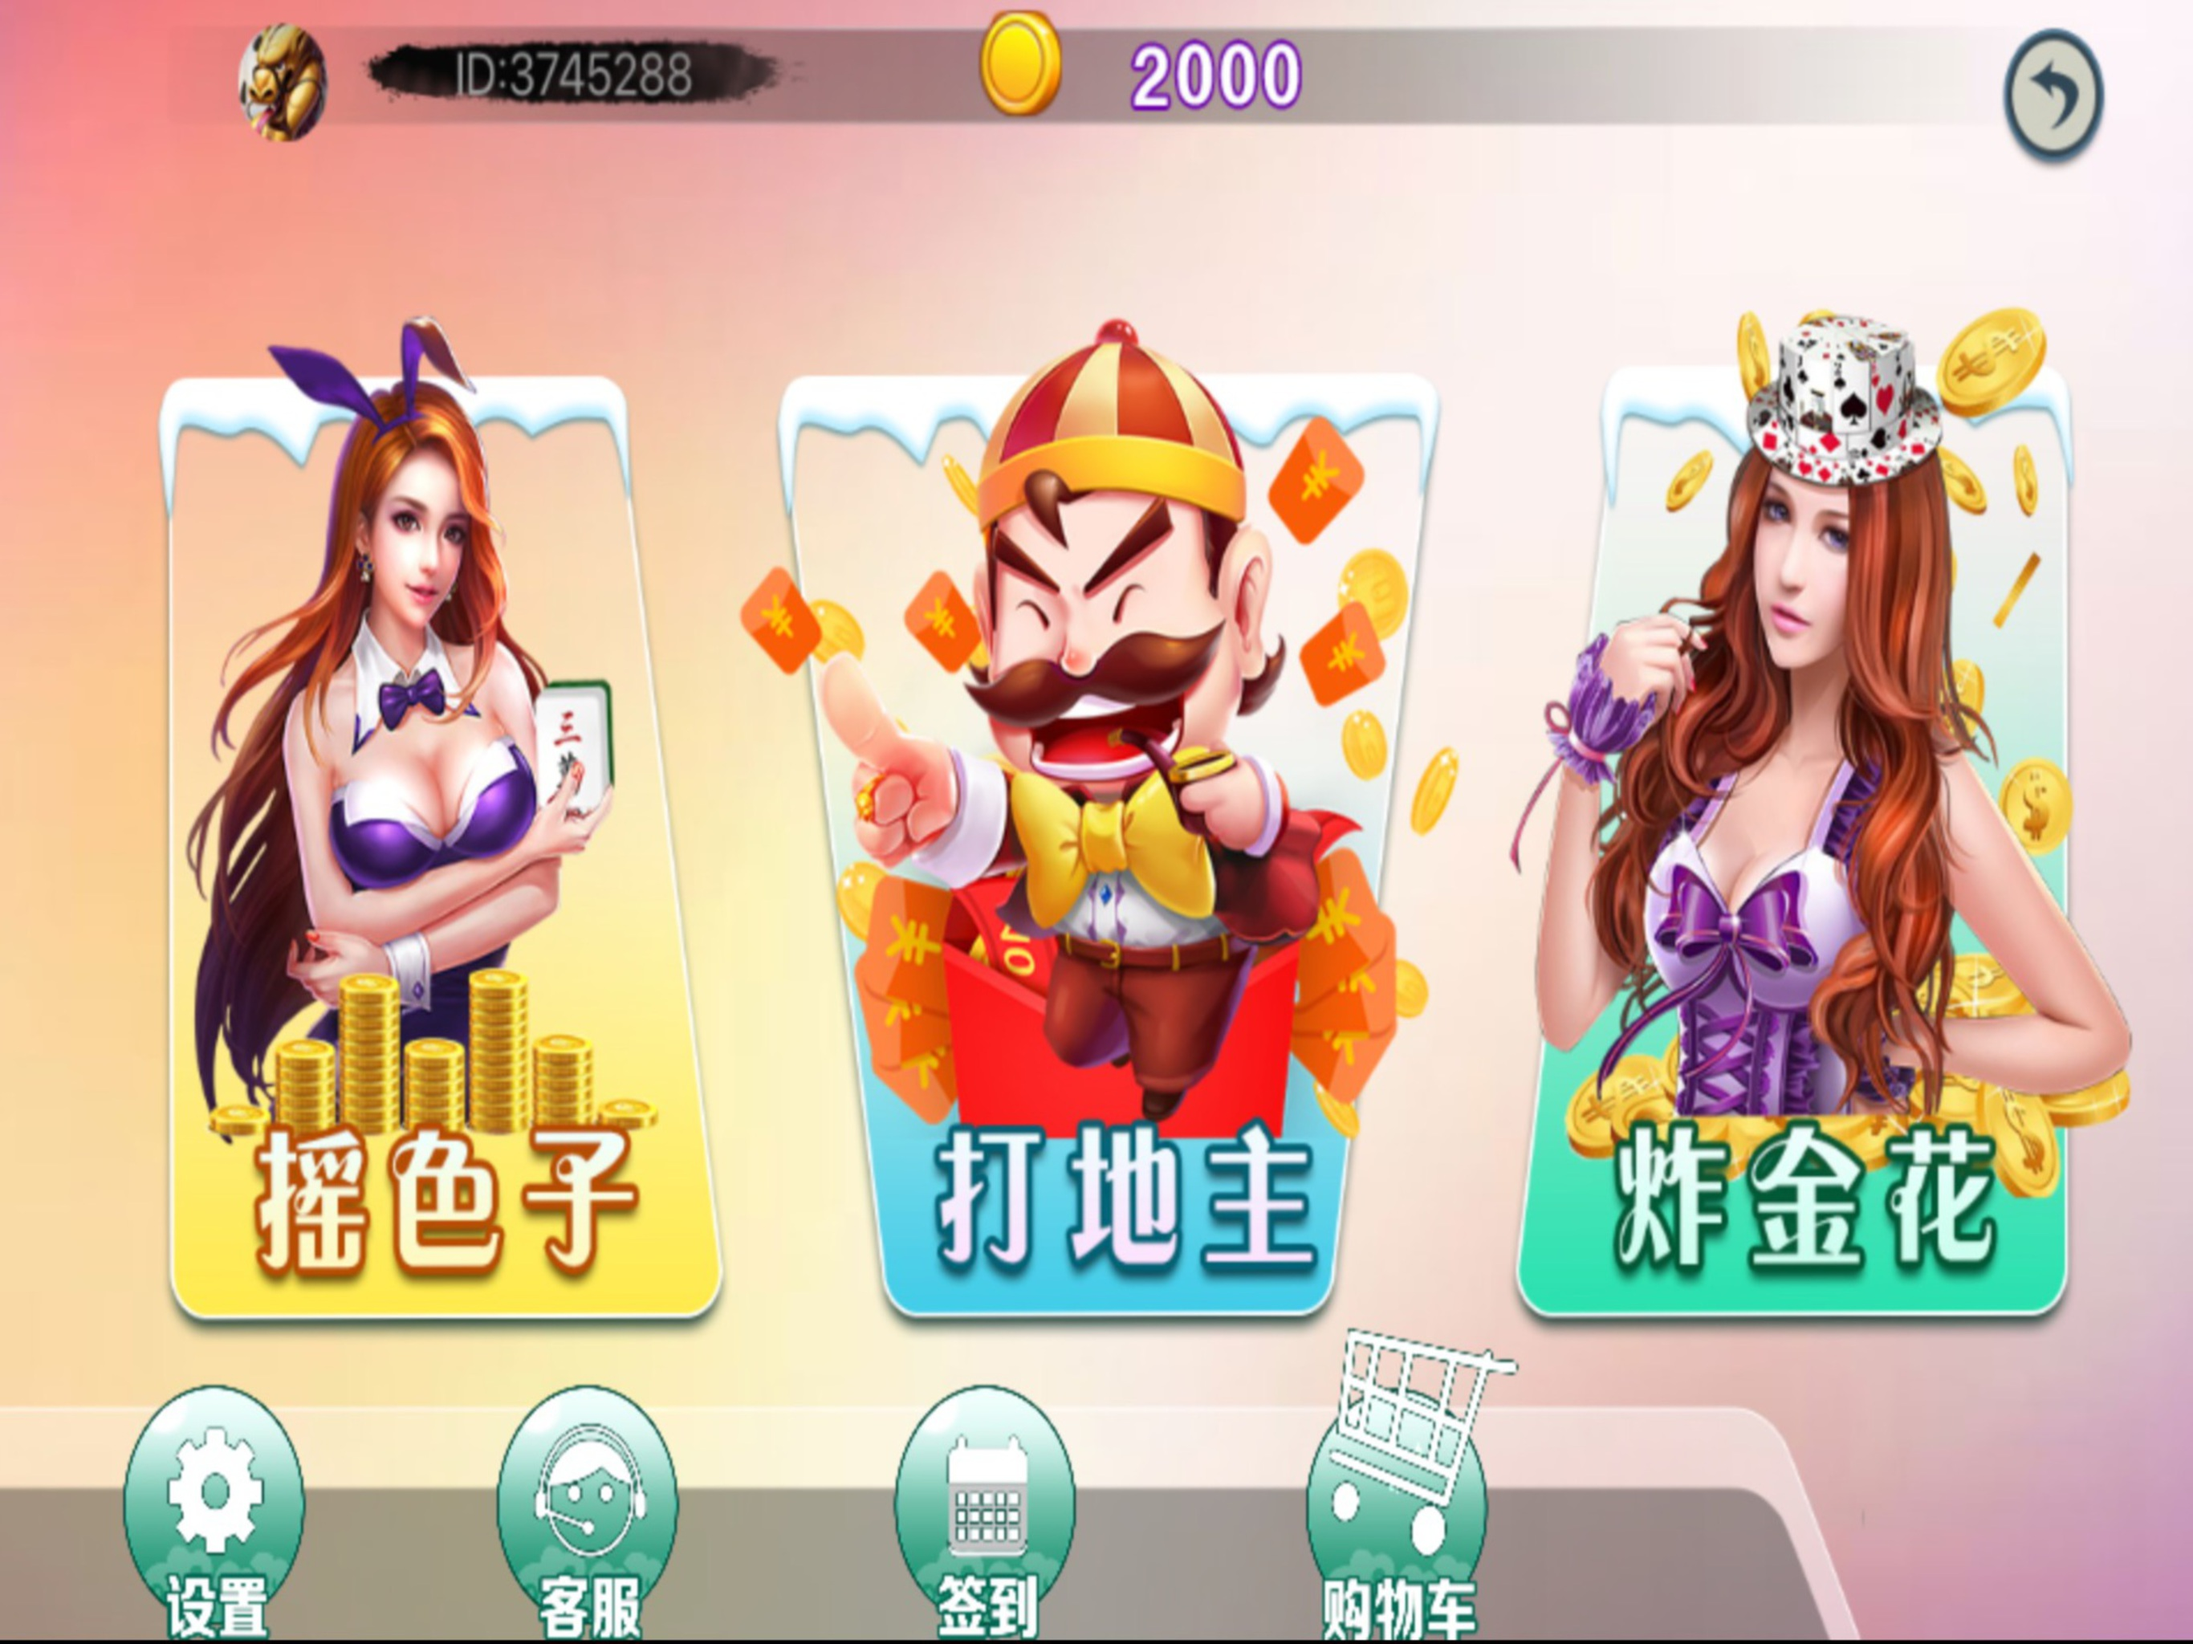
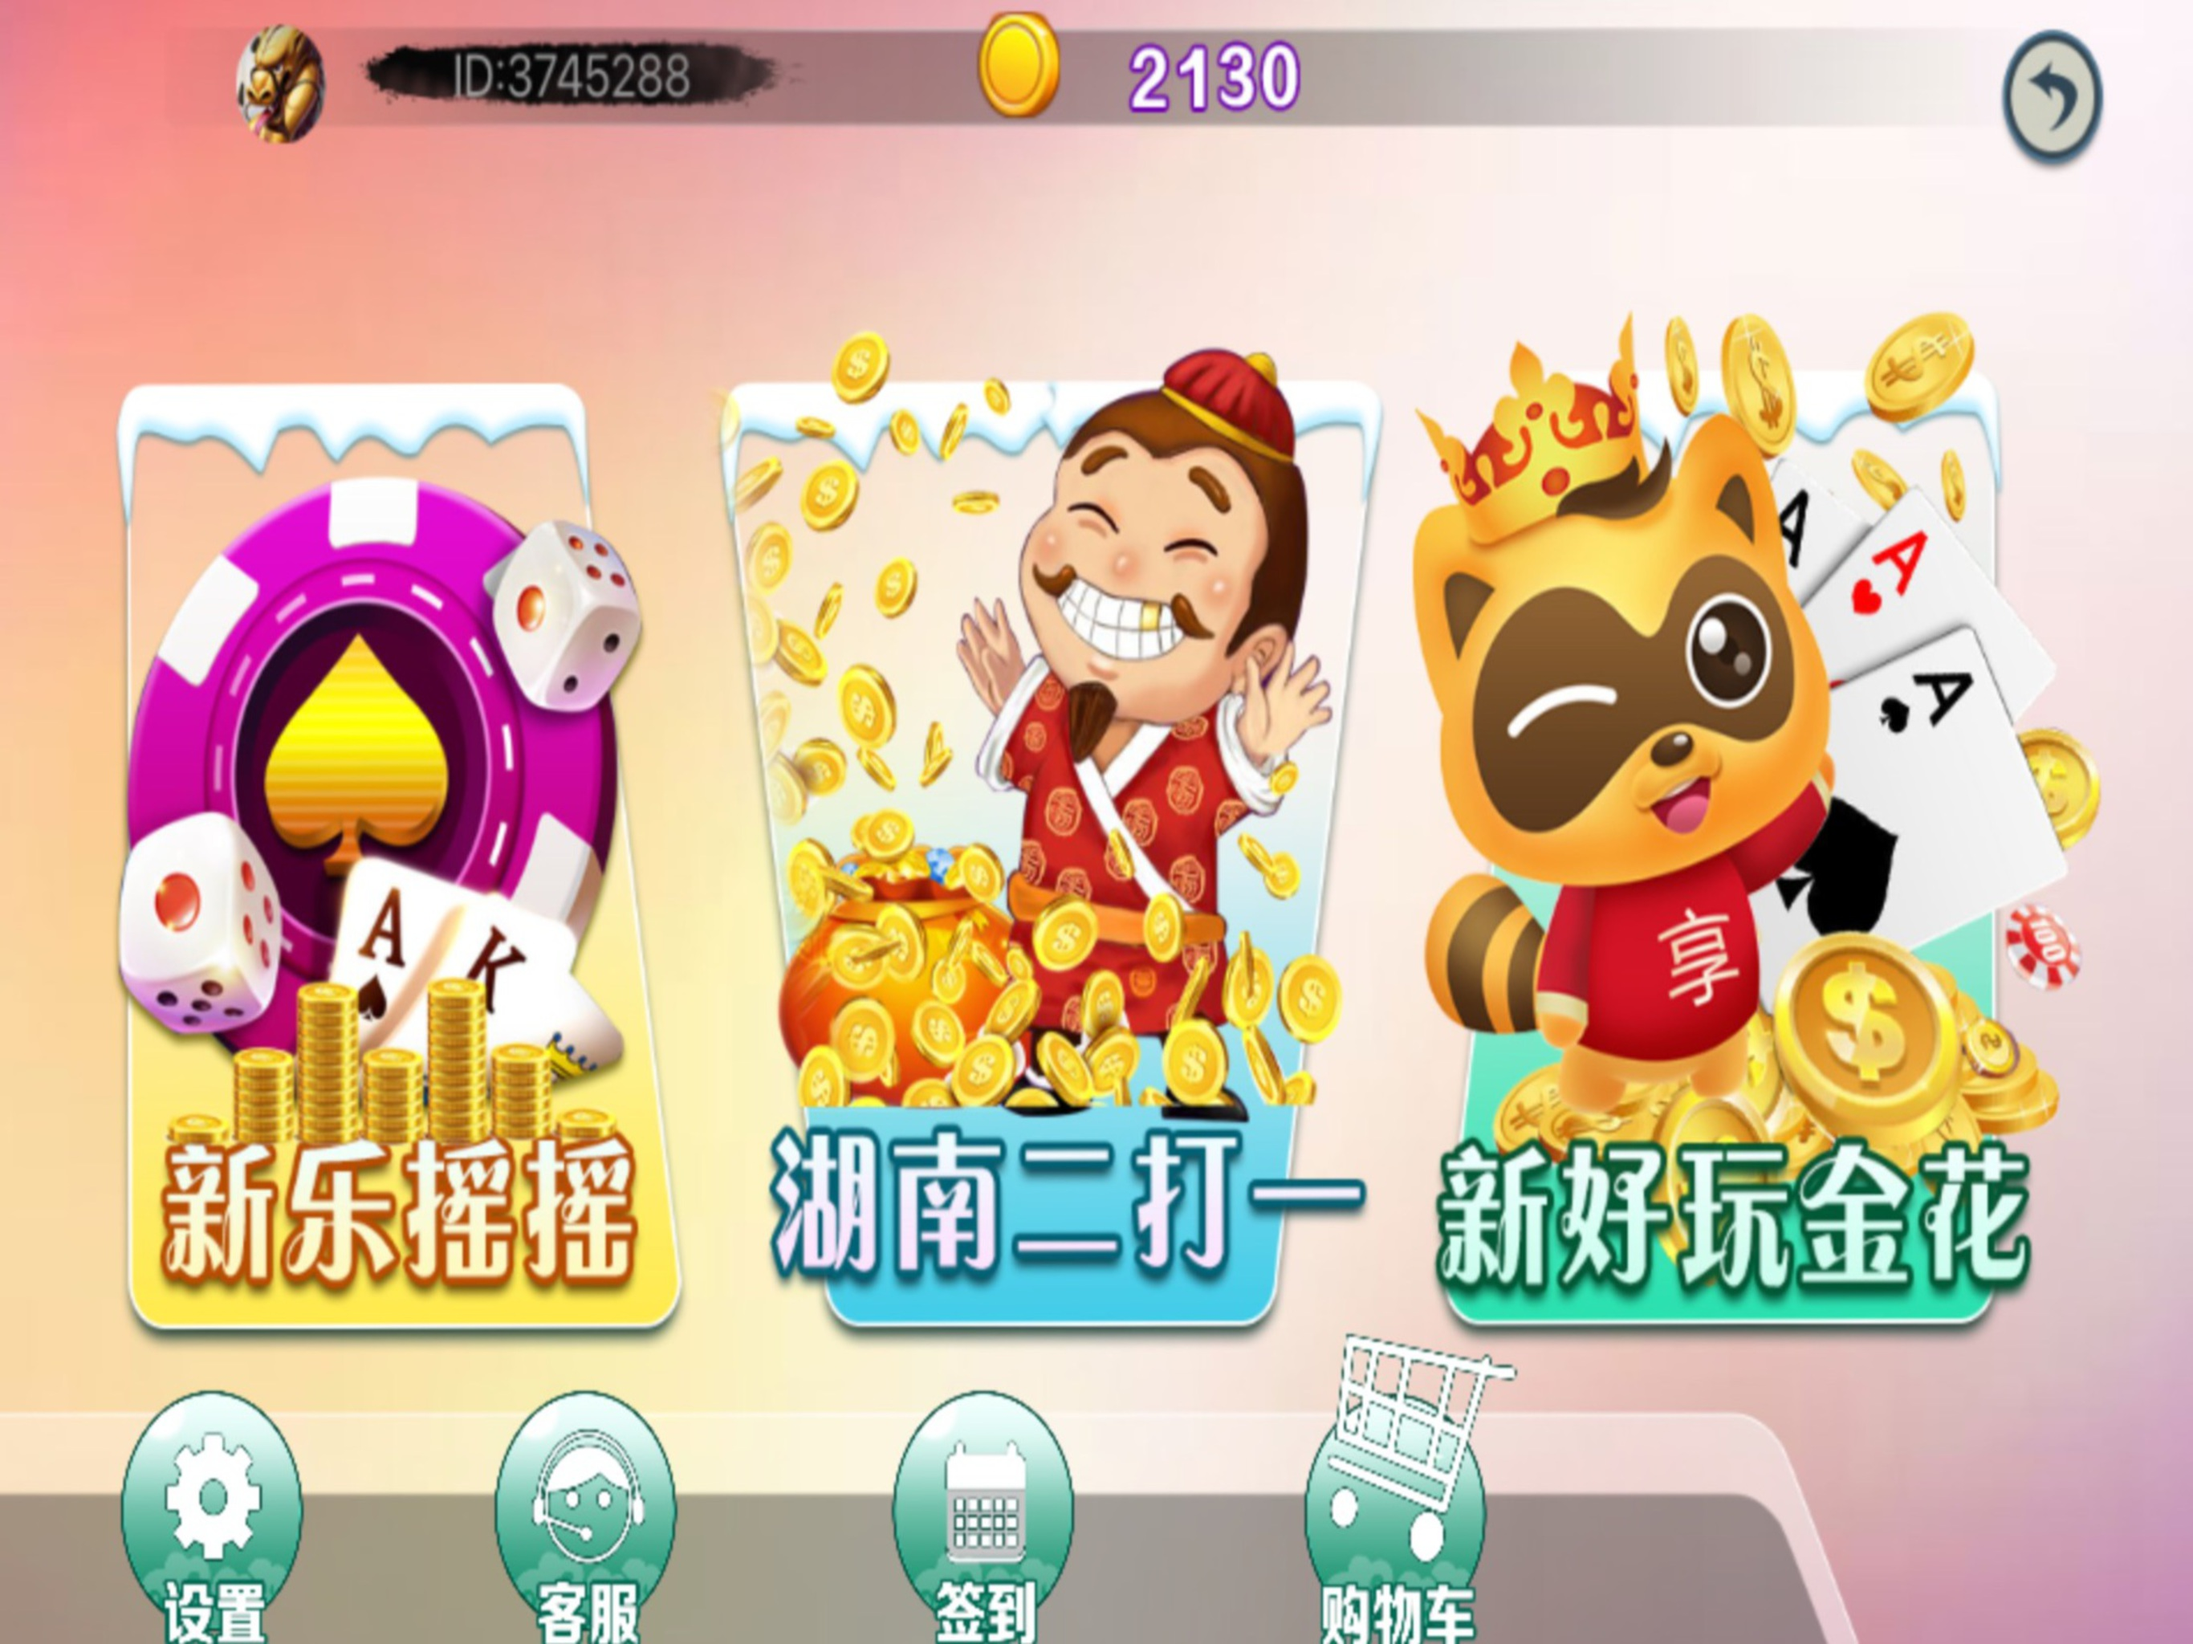
first commit

diff --git a/README.md b/README.md
@@ -5,8 +5,8 @@
 
 
 ```
-走过路过不要错过，精彩尽在金星娱乐：
-【游戏合集】多种游戏集锦，多种玩法，根本停不下来，无需注册，下载即玩。
+走过路过不要错过，精彩尽在金星娛樂：
+【游戏合集】多种游戏集锦，新乐摇一摇，湖南二打一，新好玩金花，多种玩法，根本停不下来，无需注册，下载即玩。
 【技术比拼】一山更比一山高，民间高手，隐居侠士，实力巅峰，强强对决！ 
 【贴心客服】24小时客服在线，输入您的问题，随时为您解决。
 【每日签到】当清晨的第一道光透过窗口照进来，我们已经做号准备期待着您的来临，签到更有游戏币。
